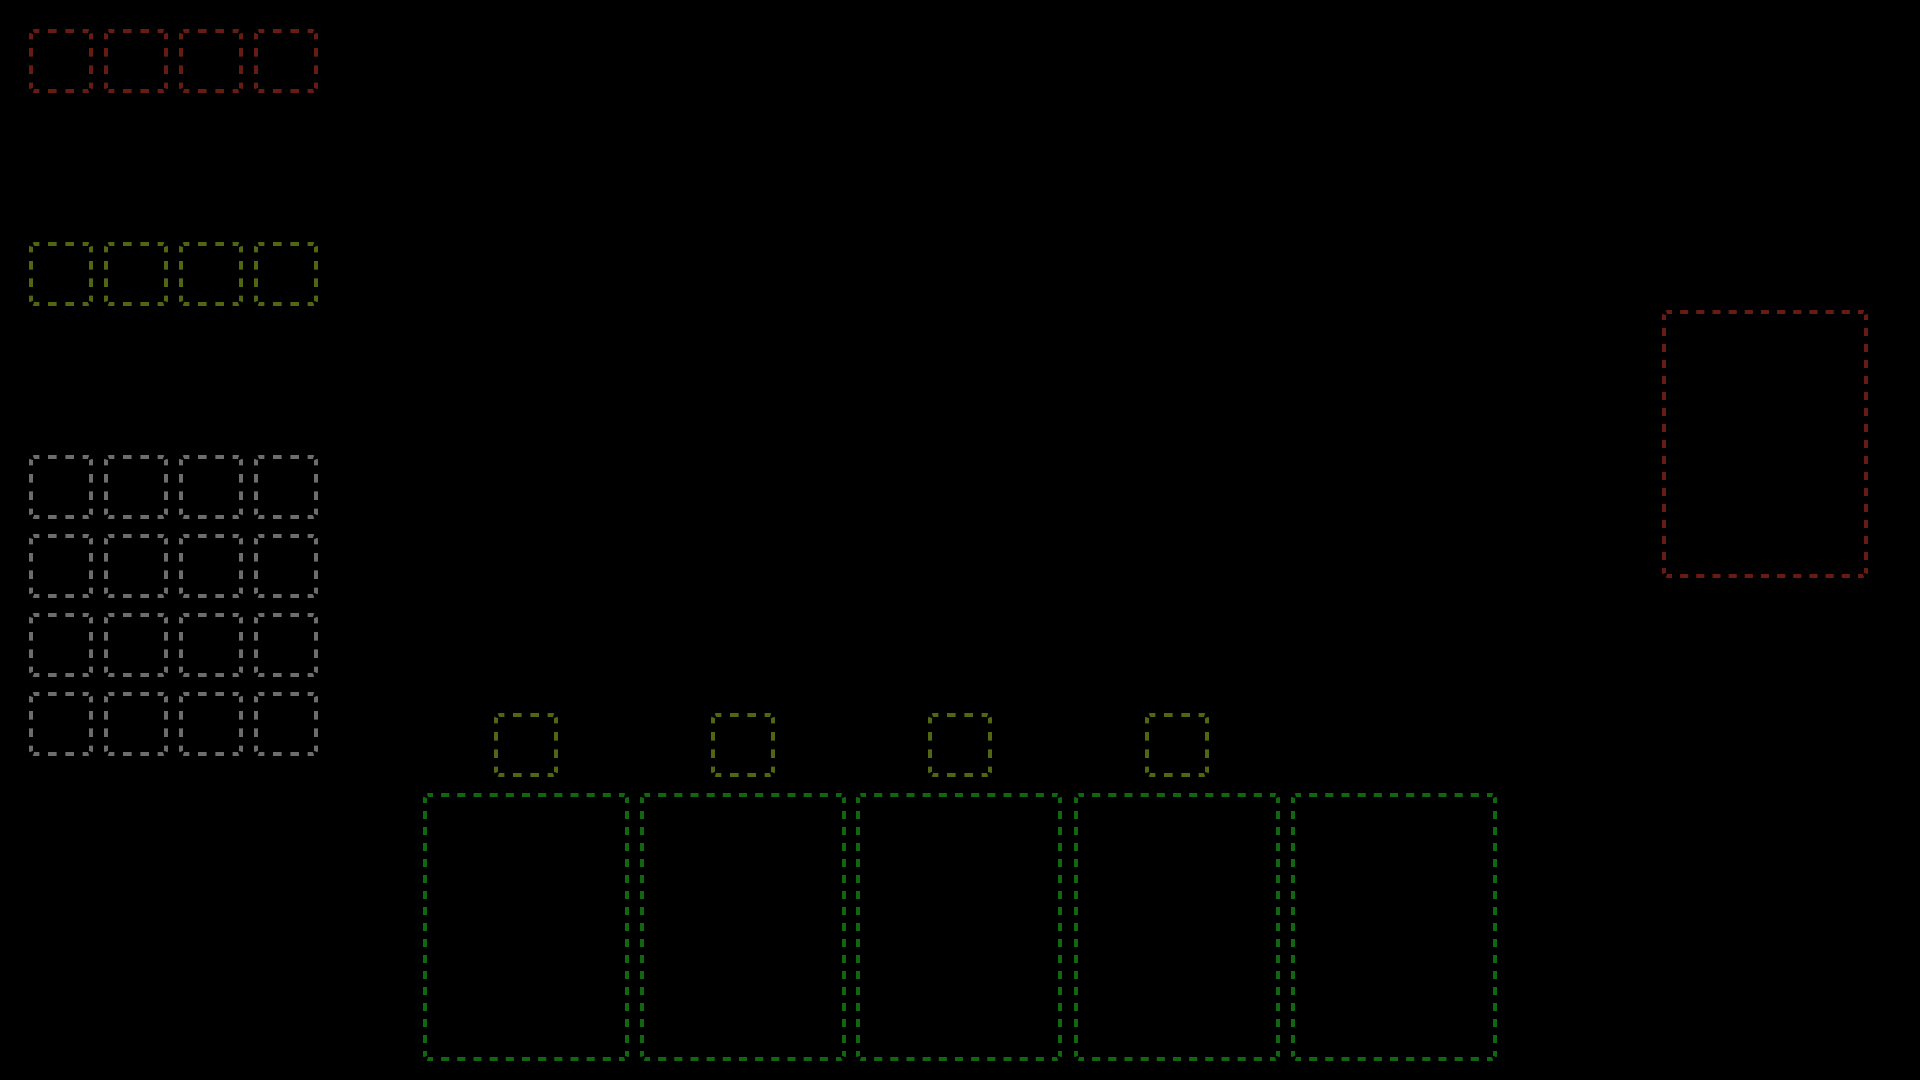
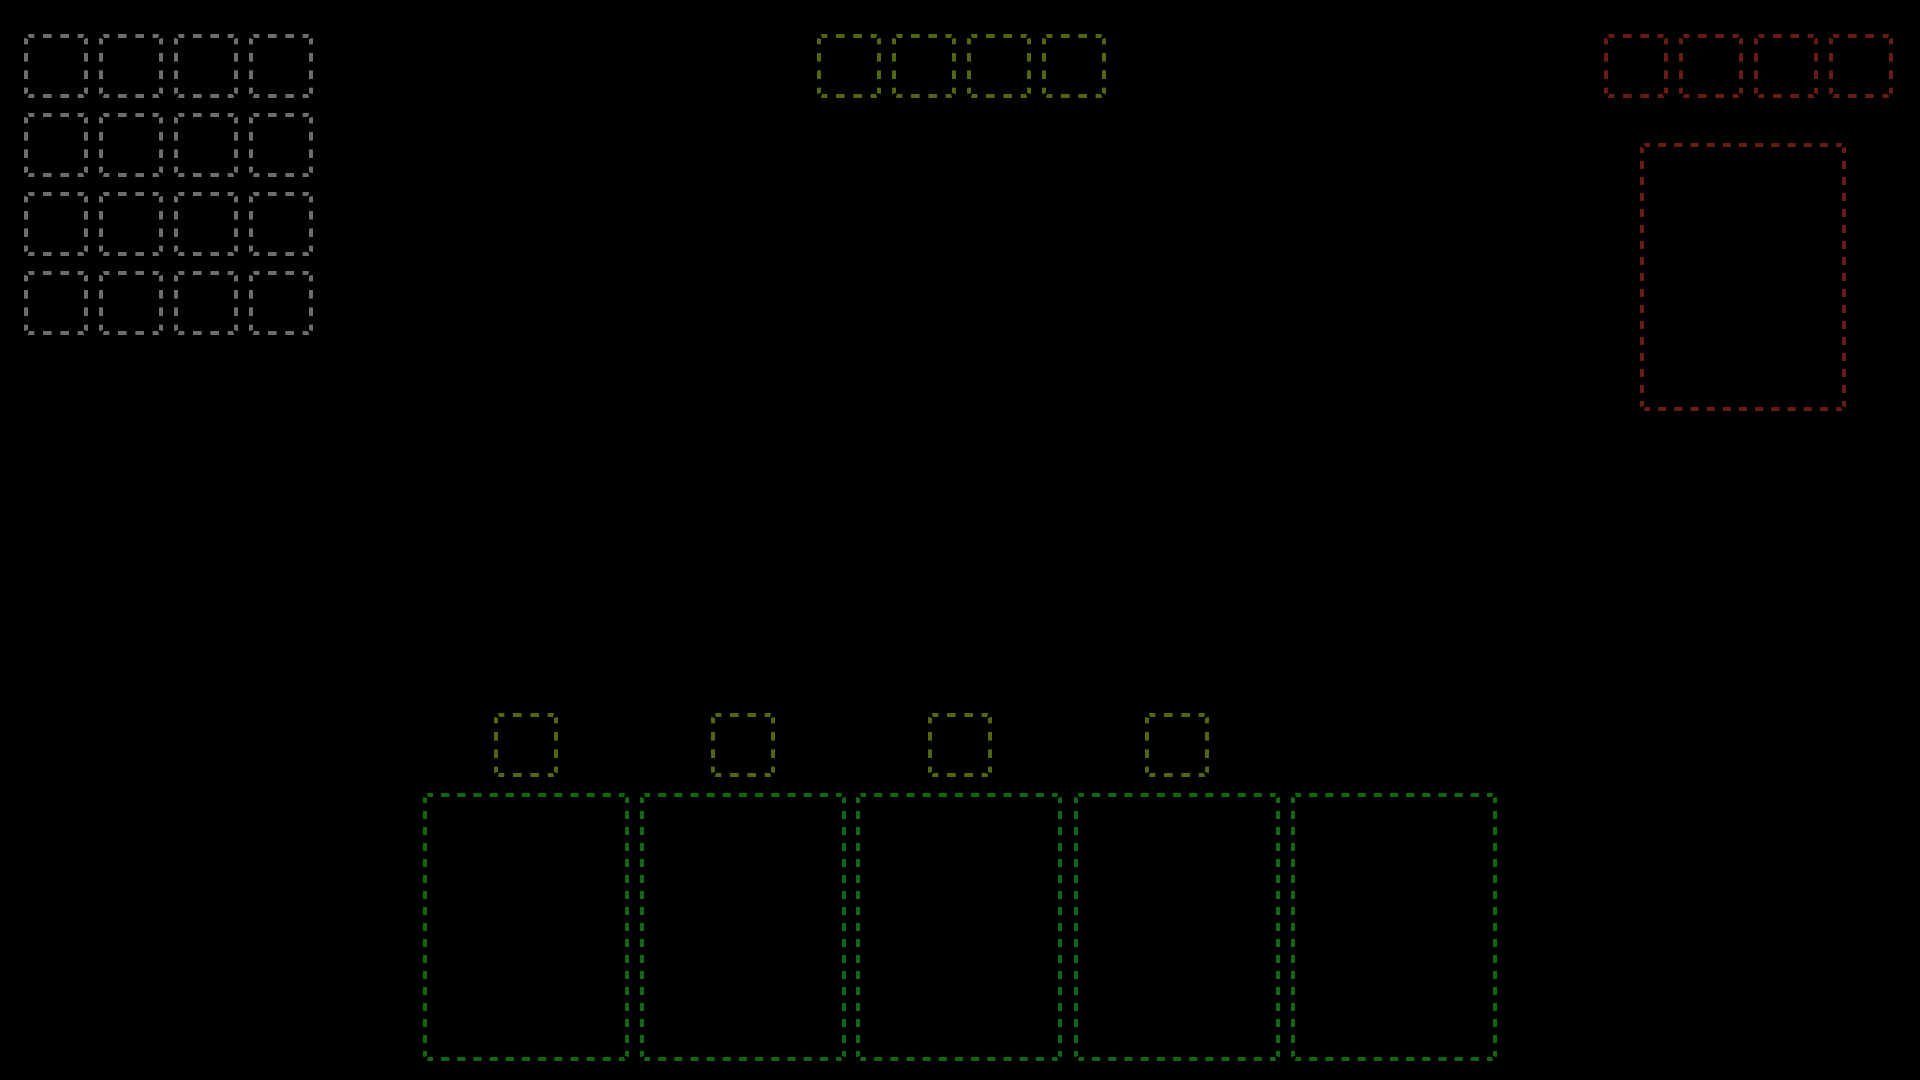
Gameplay UI  + Rejig layout

diff --git a/crates/vagabond/src/screen/gameplay.rs b/crates/vagabond/src/screen/gameplay.rs
@@ -81,7 +81,7 @@ fn gameplay_enter(mut commands: Commands, asset_server: Res<AssetServer>) {
             display: Display::Grid,
             width: HUNDRED,
             height: HUNDRED,
-            grid_template_columns: vec![GridTrack::px(342.0), GridTrack::flex(1.0), GridTrack::px(342.0)],
+            grid_template_columns: vec![GridTrack::px(338.0), GridTrack::flex(1.0), GridTrack::px(338.0)],
             grid_template_rows: GridTrack::auto(),
             ..default()
         },
@@ -93,7 +93,7 @@ fn gameplay_enter(mut commands: Commands, asset_server: Res<AssetServer>) {
             width: HUNDRED,
             height: HUNDRED,
             grid_template_columns: GridTrack::flex(1.0),
-            grid_template_rows: vec![GridTrack::px(116.0), GridTrack::px(320.0), GridTrack::px(336.0), GridTrack::auto()],
+            grid_template_rows: vec![GridTrack::px(372.0), GridTrack::flex(1.0)],
             ..default()
         },
         ..default()
@@ -104,6 +104,7 @@ fn gameplay_enter(mut commands: Commands, asset_server: Res<AssetServer>) {
             width: HUNDRED,
             height: HUNDRED,
             grid_template_columns: RepeatedGridTrack::flex(4, 1.0),
+            column_gap: Val::Px(10.0),
             grid_template_rows: GridTrack::flex(1.0),
             ..default()
         },
@@ -114,8 +115,10 @@ fn gameplay_enter(mut commands: Commands, asset_server: Res<AssetServer>) {
             display: Display::Grid,
             width: HUNDRED,
             height: HUNDRED,
-            grid_template_columns: RepeatedGridTrack::flex(4, 1.0),
+            grid_template_columns: GridTrack::flex(1.0),
             grid_template_rows: RepeatedGridTrack::flex(4, 1.0),
+            row_gap: Val::Px(10.0),
+            padding: UiRect::all(Val::Px(34.0)),
             ..default()
         },
         ..default()
@@ -126,7 +129,18 @@ fn gameplay_enter(mut commands: Commands, asset_server: Res<AssetServer>) {
             width: HUNDRED,
             height: HUNDRED,
             grid_template_columns: GridTrack::flex(1.0),
-            grid_template_rows: vec![GridTrack::px(696.0), GridTrack::px(88.0), GridTrack::flex(1.0)],
+            grid_template_rows: vec![GridTrack::px(128.0), GridTrack::px(572.0), GridTrack::px(86.0), GridTrack::flex(1.0)],
+            ..default()
+        },
+        ..default()
+    };
+    let roll_layout = NodeBundle {
+        style: Style {
+            display: Display::Grid,
+            width: HUNDRED,
+            height: HUNDRED,
+            grid_template_columns: vec![GridTrack::flex(1.0), GridTrack::px(290.0), GridTrack::flex(1.0)],
+            grid_template_rows: GridTrack::flex(1.0),
             ..default()
         },
         ..default()
@@ -170,7 +184,7 @@ fn gameplay_enter(mut commands: Commands, asset_server: Res<AssetServer>) {
             width: HUNDRED,
             height: HUNDRED,
             grid_template_columns: GridTrack::flex(1.0),
-            grid_template_rows: vec![GridTrack::px(298.0), GridTrack::px(308.0), GridTrack::px(390.0), GridTrack::flex(1.0)],
+            grid_template_rows: vec![GridTrack::px(86.0), GridTrack::px(308.0), GridTrack::px(450.0), GridTrack::px(100.0), GridTrack::flex(1.0)],
             ..default()
         },
         ..default()
@@ -199,19 +213,22 @@ fn gameplay_enter(mut commands: Commands, asset_server: Res<AssetServer>) {
     commands.spawn(screen).with_children(|parent| {
         parent.spawn(main_layout).with_children(|parent| {
             parent.spawn(attr_layout).with_children(|parent| {
-                parent.spawn(attr_values_layout.clone()).with_children(|parent| {
-                    parent.spawn(spacer(Color::NONE));
-                });
-                parent.spawn(attr_values_layout).with_children(|parent| {
-                    for i in 0..=3 {
-                        parent.spawn((RollText(i), text("-", &font_info_erg)));
-                    }
-                });
                 parent.spawn(attr_player_layout).with_children(|parent| {
                     parent.spawn(spacer(Color::NONE));
                 });
+                parent.spawn(spacer(Color::NONE));
+                parent.spawn(spacer(Color::NONE));
             });
             parent.spawn(center_layout).with_children(|parent| {
+                parent.spawn(roll_layout).with_children(|parent| {
+                    parent.spawn(spacer(Color::NONE));
+                    parent.spawn(attr_values_layout.clone()).with_children(|parent| {
+                        for i in 0..=3 {
+                            parent.spawn((RollText(i), text("-", &font_info_erg)));
+                        }
+                    });
+                    parent.spawn(spacer(Color::NONE));
+                });
                 parent.spawn(game_map_layout).with_children(|parent| {
                     parent.spawn(spacer(Color::NONE));
                 });
@@ -228,6 +245,9 @@ fn gameplay_enter(mut commands: Commands, asset_server: Res<AssetServer>) {
                 });
             });
             parent.spawn(machine_layout).with_children(|parent| {
+                parent.spawn(attr_values_layout).with_children(|parent| {
+                    parent.spawn(spacer(Color::NONE));
+                });
                 parent.spawn(spacer(Color::NONE));
                 parent.spawn(spacer(Color::NONE));
                 parent.spawn((PhaseText, text("Phase", &font_info_green)));
